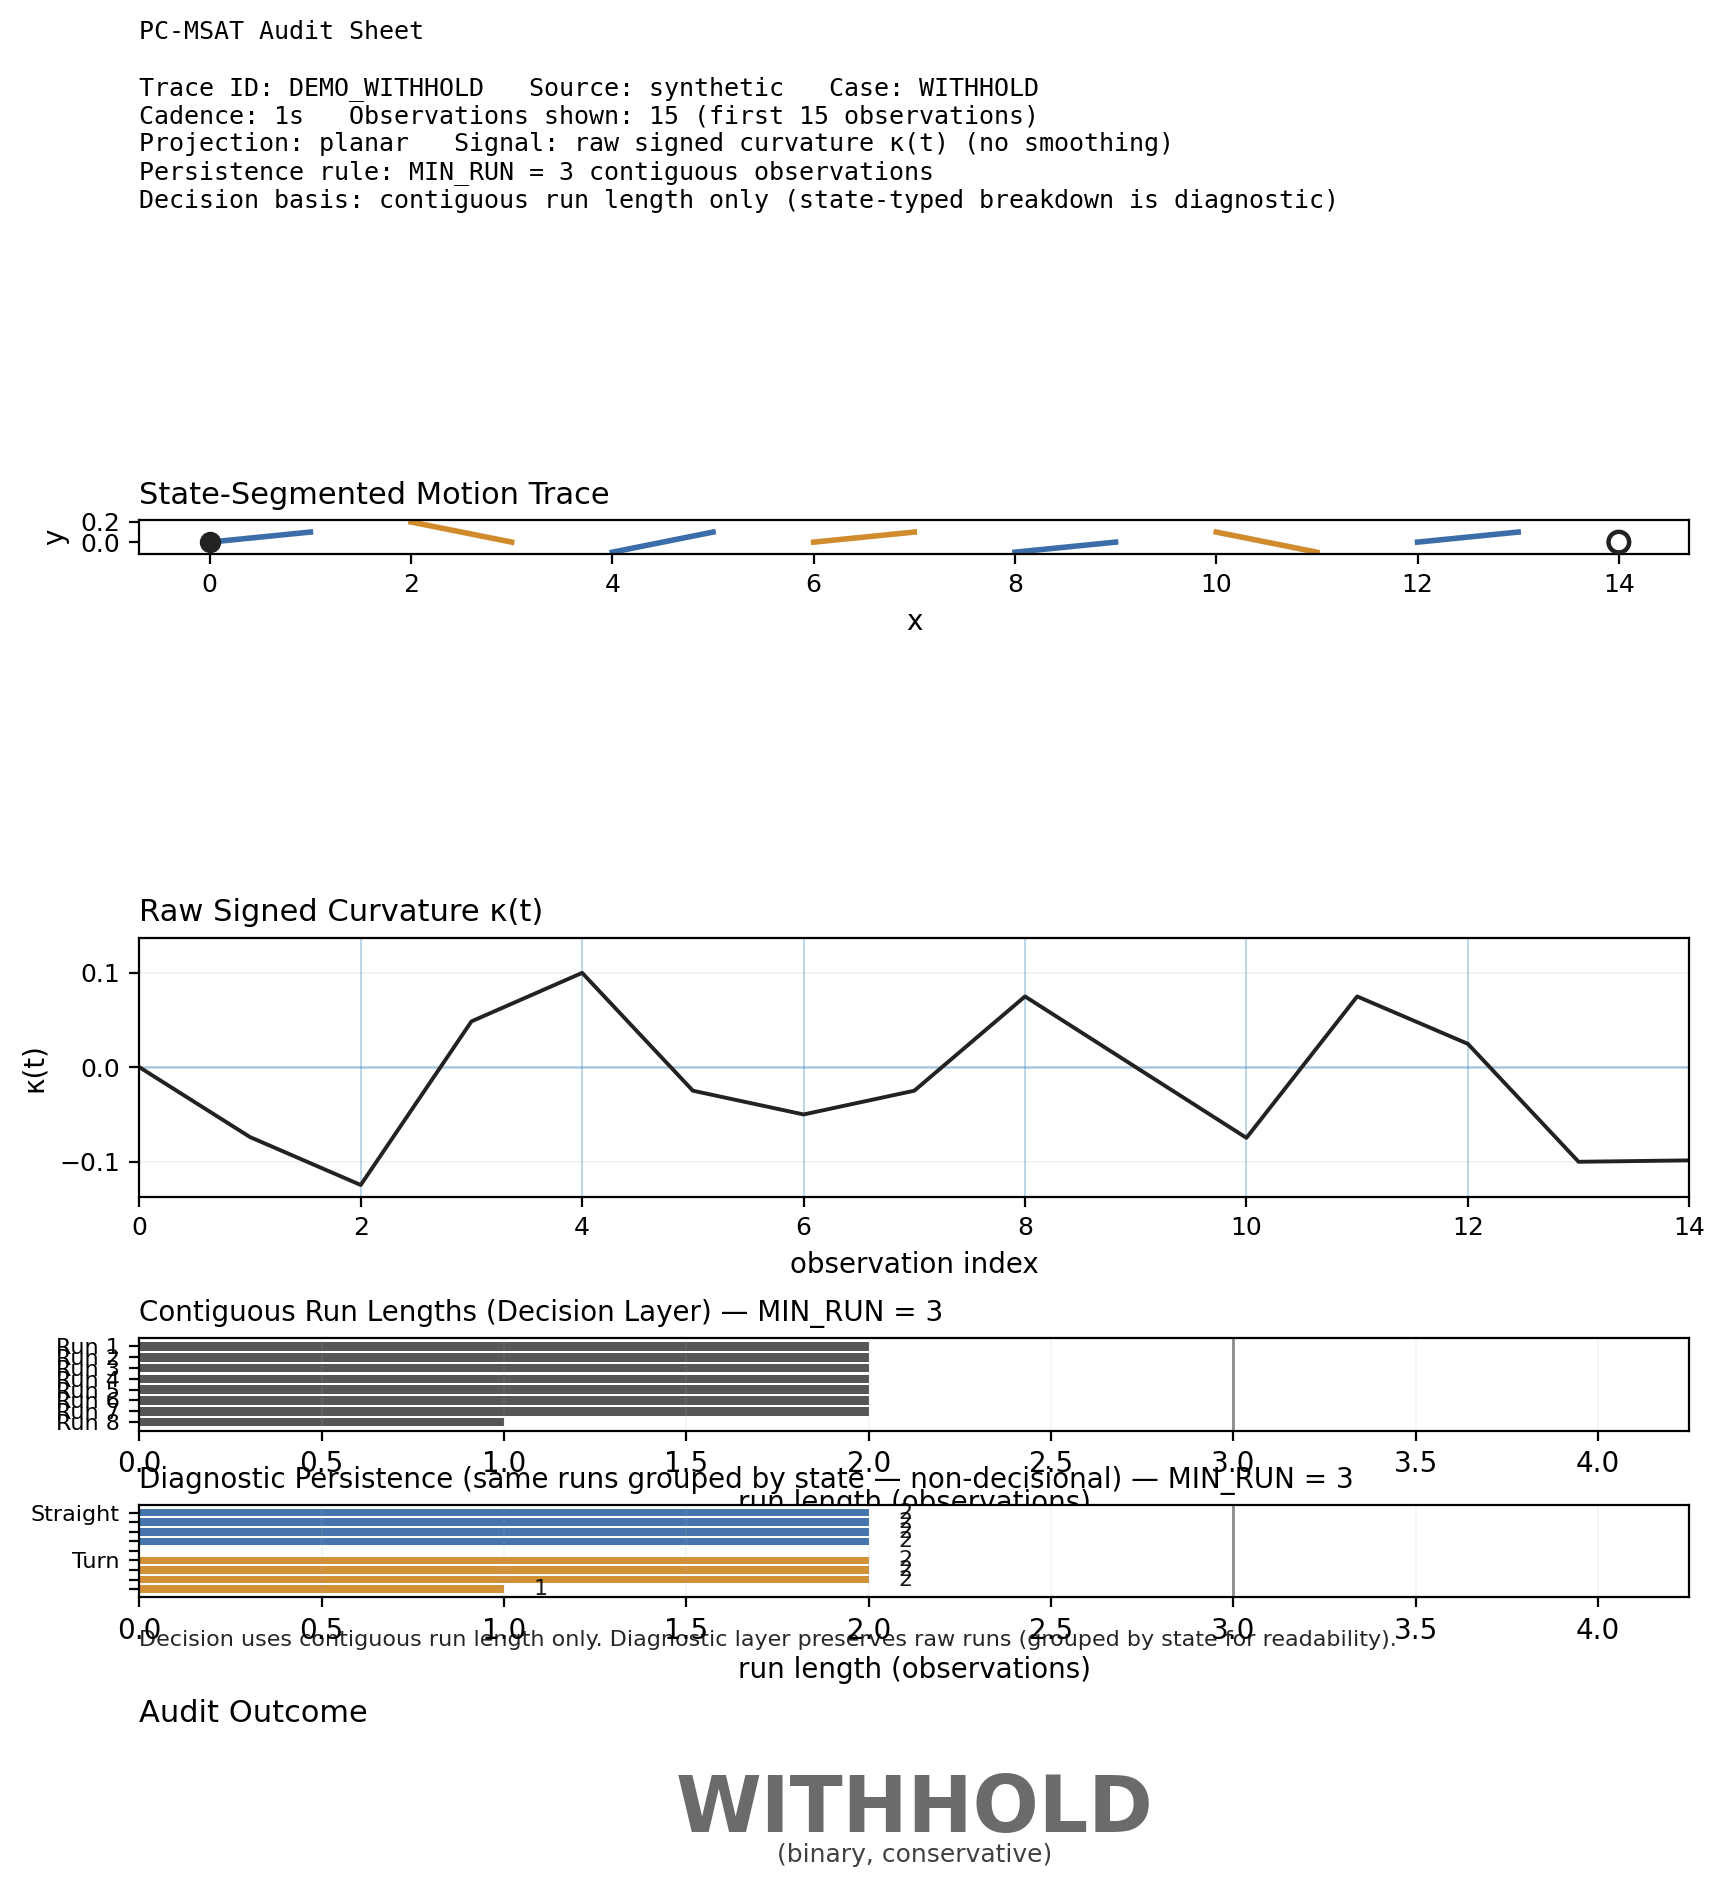
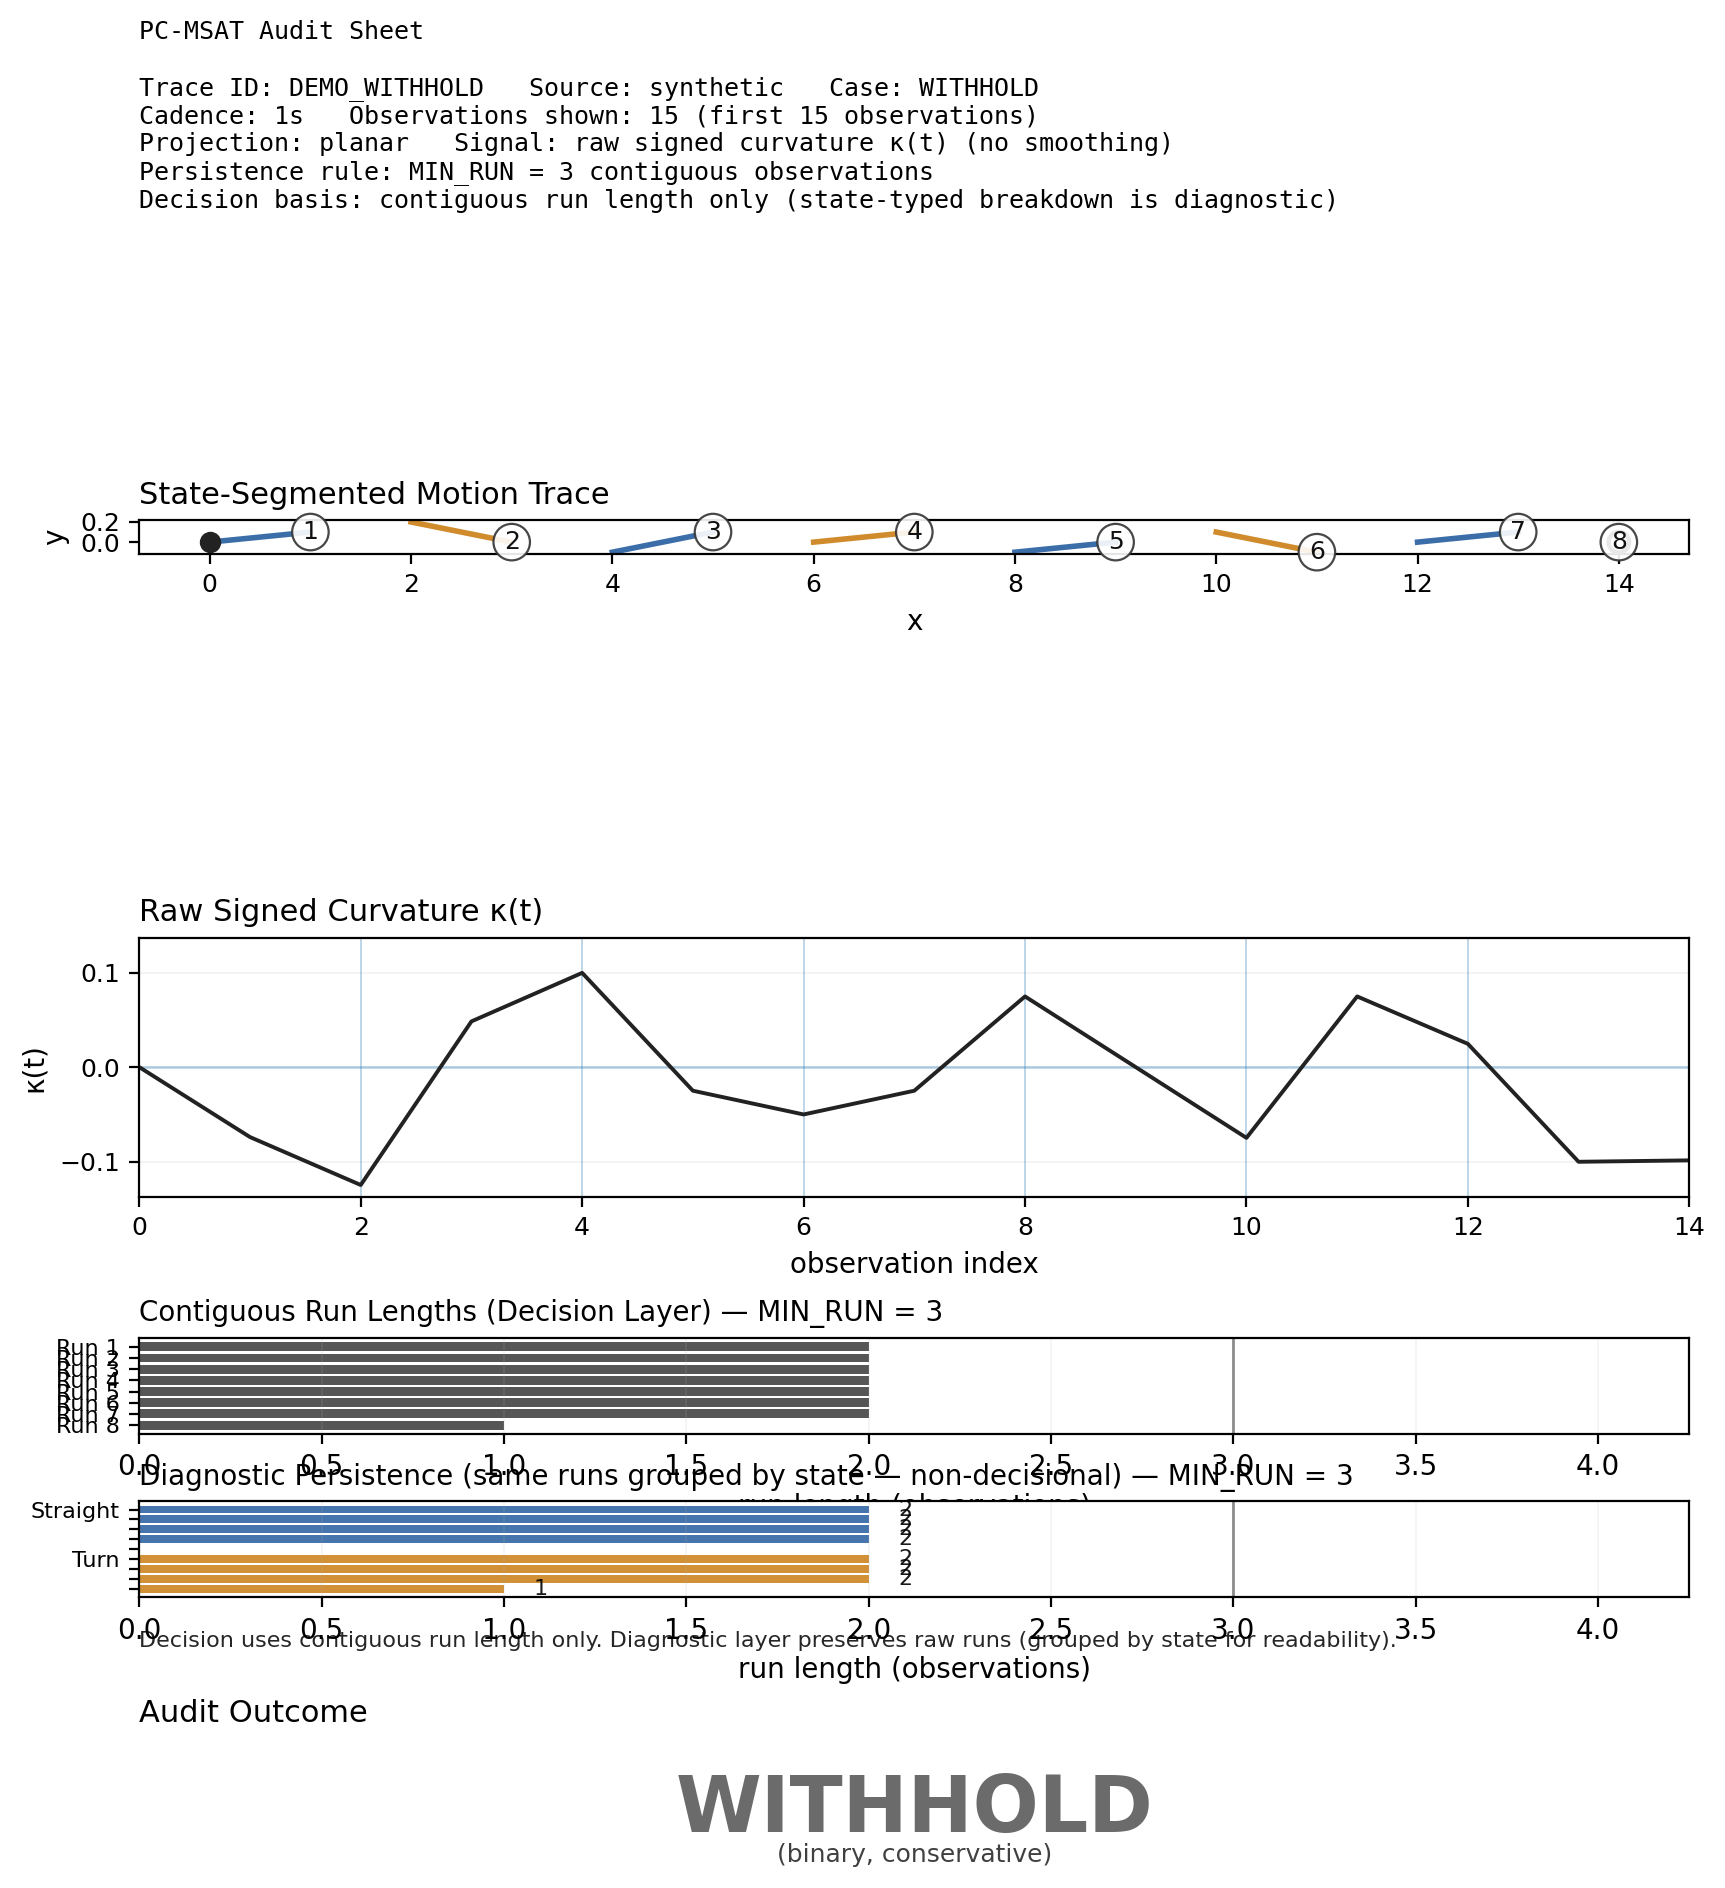
Renderer: add run indexing, persistence annotations, trigger highlighting, and persistence panel structure

diff --git a/renderer/render_pcmsat_audit.py b/renderer/render_pcmsat_audit.py
@@ -146,11 +146,41 @@ def draw_state_colored_trajectory(
     ax, x: np.ndarray, y: np.ndarray, states: np.ndarray
 ) -> None:
     runs = contiguous_runs(states)
-    for _, s, start, length in runs:
+
+    for run_idx, s, start, length in runs:
         end = start + length
+
+        # draw trajectory segment
         ax.plot(x[start:end], y[start:end], color=SOD_COLORS[s], linewidth=2)
 
-    ax.scatter([x[0]], [y[0]], s=45, color="#222222", zorder=5)  # ● start
+        # compute midpoint for index label
+        mid = start + length // 2
+        xm = x[mid]
+        ym = y[mid]
+
+        # run index marker
+        ax.text(
+            xm,
+            ym,
+            str(run_idx + 1),
+            fontsize=9,
+            ha="center",
+            va="center",
+            color="#111111",
+            bbox=dict(
+                boxstyle="circle,pad=0.25",
+                facecolor="white",
+                edgecolor="#333333",
+                linewidth=0.8,
+                alpha=0.9,
+            ),
+            zorder=6,
+        )
+
+    # start marker
+    ax.scatter([x[0]], [y[0]], s=45, color="#222222", zorder=5)
+
+    # end marker
     ax.scatter(
         [x[-1]],
         [y[-1]],
@@ -159,7 +189,7 @@ def draw_state_colored_trajectory(
         edgecolors="#222222",
         linewidths=1.6,
         zorder=5,
-    )  # ○ end
+    )
 
     ax.set_aspect("equal", adjustable="box")
     ax.set_xlabel("x")
@@ -212,7 +242,9 @@ def draw_persistence_panel(
     # -----------------------------
     y = np.arange(len(run_lengths))
 
-    ax_top.barh(y, run_lengths, color="#444444", alpha=0.9)
+    colors = ["#2F7D4A" if length >= min_run else "#444444" for length in run_lengths]
+
+    ax_top.barh(y, run_lengths, color=colors, alpha=0.9)
     ax_top.axvline(min_run, color="#444444", linewidth=1.0, alpha=0.6)
     ax_top.set_xlim(0, xmax)
 
@@ -380,9 +412,12 @@ def render_audit_sheet(df: pd.DataFrame, meta: Meta, out_path: Path) -> None:
     ax2.set_title("Raw Signed Curvature κ(t)", fontsize=11, loc="left")
     draw_curvature_panel(ax2, kappa, boundaries)
 
-    gs_p3 = gs[3].subgridspec(2, 1, height_ratios=[1, 1], hspace=0.8)
+    gs_p3 = gs[3].subgridspec(2, 1, height_ratios=[1, 1], hspace=0.7)
     ax3a = fig.add_subplot(gs_p3[0])
     ax3b = fig.add_subplot(gs_p3[1])
+
+    ax3a.set_title("Persistence Analysis", fontsize=11, loc="left", pad=14)
+
     draw_persistence_panel(ax3a, ax3b, runs, meta.min_run)
 
     ax4 = fig.add_subplot(gs[4])
